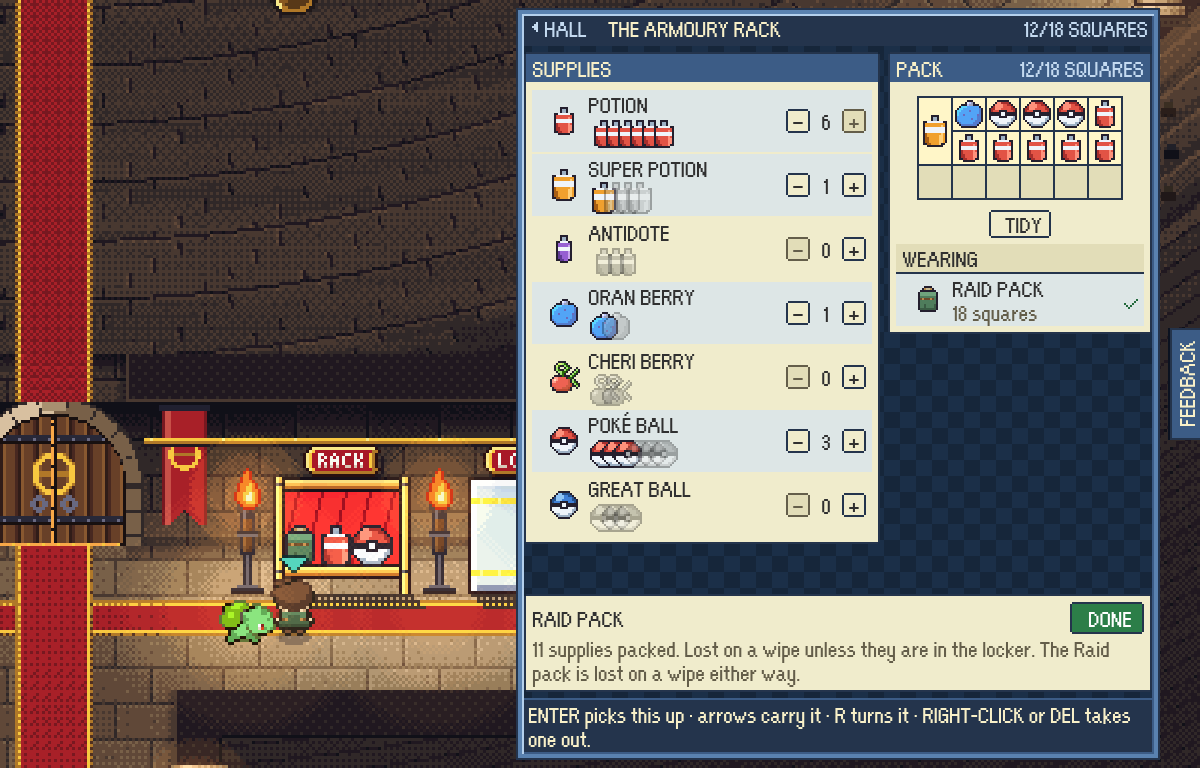
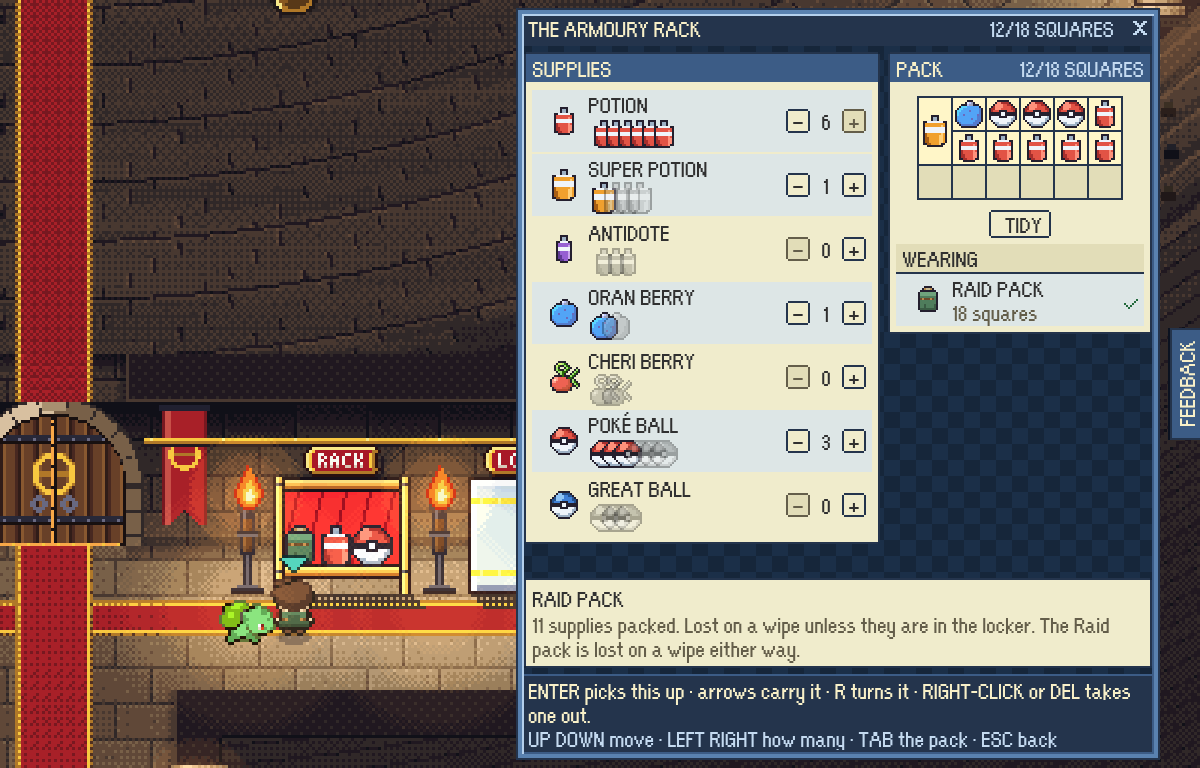
Every screen keeps one keys line that never goes, under the help for the thing the cursor is on
The hall's panels had a keys line in their markup, but the help bar showed the
highlighted control's help instead, so their keys were hidden from the first
frame. The help bar is now three lines: the control's help on two, and the
screen's keys on the bottom one, which nothing replaces. A note about the
screen as a whole (the raid result's) is helpDefault. The rack names its own
keys, Tab across to the pack among them, and rackTab.mjs follows the rack's
header X now that DONE and HALL are gone.

diff --git a/src/game/scenes/ExtractionScene.ts b/src/game/scenes/ExtractionScene.ts
@@ -517,9 +517,10 @@ export class ExtractionScene extends Phaser.Scene {
       place: escapeHtml(report.eyebrow),
       title: '',
       aside: escapeHtml(this.clockAside()),
-      // The help strip says what becomes of the result, as the full report's
-      // does; the key for the report is on its button (the critic's third pass).
-      hints: escapeHtml(this.momentNote()),
+      // The help line says what becomes of the result, as the full report's
+      // does, over the keys line every screen keeps.
+      helpDefault: escapeHtml(this.momentNote()),
+      hints: this.resultKeys(true),
       body: `<main class="px-body extraction-moment-layout">${pixelWindow(
         `${picture}<strong class="px-name moment-headline" data-moment-headline>${escapeHtml(moment.headline)}</strong>${
           report.closeCall ? `<span class="px-wrap">${escapeHtml(report.closeCall)}</span>` : ''
@@ -648,9 +649,10 @@ export class ExtractionScene extends Phaser.Scene {
       place: escapeHtml(report.eyebrow),
       title: '',
       aside: escapeHtml(this.clockAside()),
-      // There is one control on this screen, so the help bar is free to carry
-      // what becomes of the result.
-      hints: escapeHtml(this.footerNote()),
+      // There is one control on this screen, so the help line is free to carry
+      // what becomes of the result, over the keys line.
+      helpDefault: escapeHtml(this.footerNote()),
+      hints: this.resultKeys(false),
       body: `<main class="px-body extraction-layout ${escaped ? 'extraction-won' : 'extraction-lost'}">${pixelWindow(
         `<strong class="px-name">${escapeHtml(report.headline)}</strong>${report.closeCall ? `<strong class="px-name">${escapeHtml(report.closeCall)}</strong>` : ''}${(report.badgesWon ?? []).map((line) => `<strong class="px-name px-wrap" data-badge-won>${escapeHtml(line)}</strong>`).join('')}<span class="px-wrap">${escapeHtml(this.verdictSummary())}</span>${report.beatenBy ? `<span class="px-wrap what-beat-you">What beat you? ${escapeHtml(report.beatenBy)}</span>` : ''}`,
         { className: `extraction-verdict ${escaped ? 'px-tone-primary' : 'px-tone-risk'}`, tag: 'div' },
@@ -670,7 +672,8 @@ export class ExtractionScene extends Phaser.Scene {
       place: this.report.takenUpElsewhere ? TAKEN_UP_ELSEWHERE.place : 'Raid settled elsewhere',
       title: '',
       aside: escapeHtml(this.clockAside()),
-      hints: escapeHtml(this.footerNote()),
+      helpDefault: escapeHtml(this.footerNote()),
+      hints: this.resultKeys(false),
       body: `<main class="px-body extraction-layout extraction-lost">${pixelWindow(
         `<strong class="px-name">${escapeHtml(words.headline)}</strong><span class="px-wrap">${escapeHtml(words.summary)}</span>`,
         { className: 'extraction-verdict px-tone-risk', tag: 'div' },
@@ -905,6 +908,12 @@ export class ExtractionScene extends Phaser.Scene {
       return 'Banked';
     }
     return this.spentSupplies ? 'You came home lighter' : 'You came home whole';
+  }
+
+  /** The result's keys line: OK goes on, and L opens the full report from the moment. */
+  private resultKeys(reportToOpen: boolean): string {
+    const on = currentTry() ? 'back to the maker' : 'back to the Arena';
+    return reportToOpen ? `ENTER ${on} · L full report` : `ARROWS read · ENTER ${on}`;
   }
 
   private footerNote(): string {

diff --git a/src/game/ui/pixelUi.ts b/src/game/ui/pixelUi.ts
@@ -107,8 +107,17 @@ export interface PixelScreenOptions {
   /** Right-hand side of the title bar: a count, or the route's progress rail. */
   readonly aside?: string;
   readonly body: string;
-  /** What the keys do here. Replaced by a focused control's own `data-help`. */
+  /**
+   * What the keys do here: the bottom line of the help bar, which never
+   * disappears (the navigation audit, 25 Nov 2026, rule 9). A focused
+   * control's own `data-help` is the line above it.
+   */
   readonly hints: string;
+  /**
+   * What the help line says while the control the cursor is on has nothing of
+   * its own to say - a note about the screen as a whole. Empty by default.
+   */
+  readonly helpDefault?: string;
   /** A message about what just happened. It takes the help bar while it lasts. */
   readonly status?: string;
 }
@@ -170,7 +179,12 @@ export function pixelScreen(options: PixelScreenOptions): string {
   const status = options.status
     ? `<span class="px-status-line" role="status">${options.status}</span>`
     : '';
-  const help = `<p class="px-help${status ? ' has-status' : ''}"><span data-help-text data-help-default="${escapeAttribute(options.hints)}">${options.hints}</span>${status}</p>`;
+  // The help for whatever the cursor is on, over the keys line that never
+  // goes: before, the help took the keys line's place from the first frame,
+  // and every hall panel hid its keys (the navigation audit, 25 Nov 2026).
+  const helpDefault = options.helpDefault ?? '';
+  const keys = options.hints ? `<span class="px-keys" data-keys>${options.hints}</span>` : '';
+  const help = `<p class="px-help${status ? ' has-status' : ''}${keys ? ' has-keys' : ''}"><span data-help-text data-help-default="${escapeAttribute(helpDefault)}">${helpDefault}</span>${status}${keys}</p>`;
   return `<div class="px-screen"><header class="px-title">${back}<h1>${place}${options.title}</h1>${aside}${close}</header>${options.body}${help}</div>`;
 }
 

diff --git a/src/game/ui/pixelUi.test.ts b/src/game/ui/pixelUi.test.ts
@@ -44,8 +44,15 @@ describe('pixelScreen', () => {
   const screen = (status?: string): string =>
     pixelScreen({ title: 'Base', body: '<main></main>', hints: 'ARROWS move', status });
 
-  it('gives the help bar a default it can fall back to when the cursor has nothing to say', () => {
-    expect(screen()).toContain('data-help-text data-help-default="ARROWS move"');
+  it('keeps the keys on a line of their own under the help, which never goes', () => {
+    // The navigation audit (25 Nov 2026): the help for the control under the
+    // cursor took the keys line's place from the first frame, so every hall
+    // panel hid its keys. The help now has the line above them.
+    expect(screen()).toContain('<span class="px-keys" data-keys>ARROWS move</span>');
+    expect(screen()).toContain('data-help-text data-help-default=""');
+    expect(pixelScreen({ title: 'Raid', body: '', hints: 'ENTER on', helpDefault: 'Banked.' })).toContain(
+      'data-help-text data-help-default="Banked.">Banked.</span>',
+    );
   });
 
   it('hands the help bar to a status message while there is one', () => {
@@ -54,7 +61,8 @@ describe('pixelScreen', () => {
     expect(withStatus).toContain('role="status">Charmander recovered.');
     // The help text stays underneath, hidden by `has-status`, so the message can
     // be taken down without rebuilding the screen under the pointer.
-    expect(withStatus).toContain('class="px-help has-status"');
+    expect(withStatus).toContain('class="px-help has-status has-keys"');
+    expect(withStatus).toContain('data-keys>ARROWS move');
     expect(withStatus).toContain('data-help-text');
   });
 

diff --git a/src/game/console/gamesMenu.test.ts b/src/game/console/gamesMenu.test.ts
@@ -52,7 +52,8 @@ describe('the GAMES menu', () => {
     // On the menu N opens the name box and Escape leaves for the house; in the
     // box N is a letter and Escape puts the box down, so the menu's line lies.
     const html = gamesMenuMarkup(state({ naming: { value: 'AS' } }));
-    const defaultHelp = /data-help-default="([^"]*)"/.exec(html)?.[1] ?? '';
+    // The keys line under the help, which never goes (`pixelScreen`).
+    const defaultHelp = /data-keys>([^<]*)</.exec(html)?.[1] ?? '';
     expect(defaultHelp).not.toContain('N your name');
     expect(defaultHelp).not.toContain('back to the house');
     expect(defaultHelp).toContain('ENTER keep this name');
@@ -67,7 +68,7 @@ describe('the GAMES menu', () => {
     expect(renaming).toMatch(/data-help="Keep this name for every board\."[^>]*>OK</);
     const beforePlaying = gamesMenuMarkup(state({ playerName: null, naming: { value: '', then: 'pallet-blocks' } }));
     expect(beforePlaying).toMatch(/data-help="Play PALLET BLOCKS under this name\."[^>]*>OK</);
-    expect(/data-help-default="([^"]*)"/.exec(beforePlaying)?.[1]).toContain('ENTER play under this name');
+    expect(/data-keys>([^<]*)</.exec(beforePlaying)?.[1]).toContain('ENTER play under this name');
   });
 
   it('puts a refusal where the help bar is', () => {

diff --git a/src/style.css b/src/style.css
@@ -1905,6 +1905,30 @@ body.touch-play .feedback-tab {
   color: var(--bar-text);
   overflow: hidden;
 }
+/* A third line under the two, the screen's keys, which never goes (the
+   navigation audit, 25 Nov 2026, rule 9): the help for the thing under the
+   cursor keeps its two lines above it, and a sentence too long for them is cut
+   there rather than pushing the keys off the bar. */
+:where(.pixel-ui) .px-help.has-keys {
+  height: calc(var(--u) * 42);
+  display: flex;
+  flex-direction: column;
+}
+:where(.pixel-ui) .px-help.has-keys [data-help-text],
+:where(.pixel-ui) .px-help.has-keys .px-status-line {
+  max-height: calc(var(--u) * 24);
+  overflow: hidden;
+}
+:where(.pixel-ui) .px-keys {
+  display: block;
+  margin-top: auto;
+  margin-bottom: calc(var(--u) * 5);
+  height: calc(var(--u) * 12);
+  overflow: hidden;
+  white-space: nowrap;
+  text-overflow: ellipsis;
+  color: var(--bar-muted);
+}
 /* A status line stands in for the help text until it is taken down. */
 :where(.pixel-ui) .px-status-line {
   display: block;

diff --git a/src/game/scenes/HubScene.test.ts b/src/game/scenes/HubScene.test.ts
@@ -106,7 +106,9 @@ describe('the lobby as a screen of the game', () => {
     for (const screen of everyScreen()) {
       expect(screen).toContain('class="px-screen"');
       expect(screen).toContain('class="px-title"');
-      expect(screen).toContain('class="px-help"');
+      expect(screen).toMatch(/class="px-help[ "]/);
+      // And every one names its keys on the line that never goes (the navigation audit).
+      expect(screen).toMatch(/<span class="px-keys" data-keys>[^<]+</);
       // The modern-web vocabulary it replaced, which the raid's own screens still use.
       expect(screen).not.toMatch(/class="[^"]*(?<![\w-])(panel|entity-row|button|menu-shell)(?![\w-])/);
     }

diff --git a/src/game/scenes/HubScene.ts b/src/game/scenes/HubScene.ts
@@ -1713,8 +1713,15 @@ export class HubScene extends Phaser.Scene {
     return undefined;
   }
 
-  /** What the keys do, said once along the bottom of every screen. */
+  /**
+   * What the keys do, said once along the bottom of every screen, on a line of
+   * its own that never goes. The rack says its own: Left and Right are the
+   * counts', so Tab is the way across to the pack (`areaHopIndex`).
+   */
   private get hints(): string {
+    if (this.view === 'rack') {
+      return 'UP DOWN move · LEFT RIGHT how many · TAB the pack · ESC back';
+    }
     return 'ARROWS move · ENTER choose · ESC back';
   }
 

diff --git a/docs/agents/ui-and-screens.md b/docs/agents/ui-and-screens.md
@@ -27,6 +27,7 @@ Moved out of `AGENTS.md` on 9 Nov 2026 so that file stays small; nothing here wa
 - **A phone plays on the touch pad, and the pad is only ever keys** (`ui/touchPad.ts`). It presses the keys the game already answers - the d-pad is the arrows, OK is SPACE, BACK is ESC - as real `KeyboardEvent`s at the focused element (`input/syntheticKeys.ts`, which writes the `keyCode` Phaser reads), so no scene or screen has a touch path of its own and anything a keyboard can do a thumb can. The row above OK and BACK is the screen's own keys by name: a scene answers `touchShortcuts()` (`input/touchShortcuts.ts`) - `WorldScene` from `RAID_KEY_WORDS`, `BaseScene` from `YARD_KEY_WORDS` - and the letter keys its hint line names (`[H] DECORATE`) are read off that line, so the pad offers a key exactly when the screen says it can be pressed; a new key a scene binds is named in its hint or in its `touchShortcuts`. A key the moment or a screen adds is `extra` (`withMoment`, `asExtra`) and `shareKeys` sets it after the standing keys, framed teal, so a standing key never moves under a thumb that learned where it is (and a standing key whose letter the screen takes for its own - L is LEAD on YOUR TEAM - stays where it is, dimmed and dead, `inert`); a key a moment makes dead (PACK and TEAM while a raid's dialogue box waits) is `inert` in its place too, and a scene with no keys of its own over the one it came from (`BattleScene.dimsTouchTray`) leaves that scene's keys standing, all dimmed, so the pad never changes shape - and on the touch pad the raid's objective chip and the yard's hint line stop naming the keys the tray already shows. Whether the pad is up is `input/touchPlay.ts` (a coarse pointer to start, on at a touch, off at a real key that is not typed into a field), and while it is, `watchViewport` lays the window out round it (`display/touchLayout.ts`: the game on top and the pad below upright, the pad either side on its side) and the menus get the room the pad leaves. A press never takes focus (`preventDefault` on `pointerdown`, no real buttons), which is what lets OK press the button the menu's cursor is on. While the pad is up every Phaser `Text` says its keys the pad's way (`input/touchWords.ts`, patched onto `setText` beside `installPixelText`): `[SPACE]` is `[OK]`, `[ESC]` `[BACK]`, the arrows the `D-PAD`, and `[B] PACK` is `[PACK]`, the tray button's word; `sourceText()` is what the text was given, which is what anything reading a hint for its keys must read. The menu screens are reworded the same way by `ui/menuWords.ts`, a `MutationObserver` on `#screens` that keeps each text node's own words to put back, and a screen's help line (`data-help-default`, `pixelScreen`'s `hints`) is where the pad reads that screen's own letter keys from (`helpLineKeys`: "X drop" is a DROP key on the tray while the pack is up), so a new screen key is taught on its help line as `KEY words`, between ` · `. `tools/playtest/phone.mjs` emulates a phone with real touches and `phoneTour.mjs` photographs every screen the pad changes.
 - Phaser's key captures are global and outlive the scene that asked for them: `addCapture`, and `addKey` which captures by default, register on the game's KeyboardManager, so a paused `WorldScene` was still calling `preventDefault()` on O, P, B, K, SPACE and ENTER while an overlay it opened sat on top - which is why the field guide could only be closed with the mouse. Input ownership is therefore not a scene's to take: `src/game/ui/overlayKeyboard.ts` owns it, every `MenuOverlay` claims through it on construction and releases on `destroy()`, and one shared window listener in the *capture* phase gives the key to the topmost overlay and stops propagation so nothing below it - paused scene, Phaser captures, lower overlay - sees the key at all. Keyup is deliberately left to flow. A new overlay needs no key wiring of its own; It also swallows a *repeated* Enter or Space (`isHeldCommitKey`), default and all, because Chromium works the focused button on every auto-repeat and a held Enter once ran the drop-in step into the raid (`tools/playtest/heldEnter.mjs`). It also presses a focused button on Space's *keydown* (`pressFocusedButton`), because Chromium works a button with Space on the keyup and Phaser `preventDefault()`s the keyup of every captured key, so Space was dead on every menu. `isOverlayDismissKey(event, 'o')` is the shared rule that Escape and the key that opened a screen both close it, and `overlayKeyboard.test.ts` reproduces the whole layering without a browser. Every DOM menu rebuilds its markup per change and so must say where focus lands: `MenuOverlay.focus()` takes an *ordered* list of selectors (`src/game/ui/menuFocus.ts`), because one comma-separated selector focuses whichever match is first in the document, and that is always the back button - whose Enter resumes the raid clock. A redraw of the screen already showing goes through `MenuOverlay.redraw`, which keeps every pane's scroll (plain `innerHTML` put the loadout list back at its top on every pack), and putting the cursor back never scrolls. For the same reason a timer must never `render()` a DOM screen: a rebuild between mousedown and mouseup eats the click, which is why `HubScene.setStatus()` removes its line rather than re-rendering.
 - **W, A, S and D are the arrows on every overlay** (the navigation audit, 25 Nov 2026): `asArrowEvent` in `src/game/ui/overlayKeyboard.ts` hands the topmost overlay's handler a W, A, S or D as the arrow it stands for, so its cursor, pocket jumps and page turns take them as they take the arrows. A field being typed in never gets there (`isTypingTarget`) and Ctrl, Alt or Meta leaves them the browser's. A new screen needs no wiring of its own; a screen that wanted W, A, S or D as a letter of its own would have to be asked here first.
+- **Every screen keeps one keys line that never goes** (the navigation audit, 25 Nov 2026, rule 9). `pixelScreen`'s help bar is three lines: the help for the control under the cursor (or the pointer) on the top two, and `hints` on the bottom one (`.px-keys`, `data-keys`), which no control's help replaces. A note about the screen as a whole that is not a key - what becomes of a raid's result - is `helpDefault`, shown on the help line while the control has nothing of its own to say. Before, the help took the keys line's place from the first frame and every hall panel hid its keys. A hall panel's keys are `HubScene.hints`; the rack names its own (Left and Right are the counts', Tab crosses to the pack).
 - **Tab hops between the areas of a screen and never leaves the panel** (the navigation audit, 25 Nov 2026, rule 10). `MenuOverlay.moveCursor('Tab')` first crosses from a row into the pane it shows and back (`detailStepIndex`), and otherwise goes to the next area - each outermost framed window that is not itself a control, the bar under them, the header - with Shift+Tab going back, landing where the cursor last was in that area (`areaHopIndex` in `ui/menuFocus.ts`). It always takes the key, so the browser's own Tab never walks the cursor out into the page. On THE ARMOURY RACK it is how the PACK side is reached, since Left and Right are the counts' (`tools/playtest/rackTab.mjs`). A screen that handles Tab itself (the boutique) is asked first, as before.
 - **A pop-up is one window, FireRed's: cream paper in a blue-rimmed frame, and a question's answers in a window of their own** (the captain, 25 Nov 2026: menus' "shite colours, shite design"; `docs/screens/menu-system/`). `src/game/ui/uiPalette.ts` names the colours by role (`UI.paper`, `UI.ink`, `UI.cursor`...) and `uiPalette.test.ts` holds the text to WCAG AA on every paper; `drawFramedWindow` (in `pixelWindow.ts`) is the frame, `FRAME_DEPTH` deep - a line with clear corners, a two-pixel rim, a one-pixel bevel - and `drawPopupCursor` the red cursor with its shadow. The overworld and harbour dialogue boxes, `ChoicePrompt`, the phrase list and the battle - its panel, its HP plates (each single battle's type banner a navy tab on its plate's top edge), its red cursor, with the move rows and guidance seated inside the four-pixel frame (`battlePresentation.ts`) - are drawn in it; the harbour's box is the raid's width (`BASE_STAGE_WIDTH - 16`), because at 232 it held 38 letters a row and Nurse Joy's hello was ten presses cut mid-sentence. `ChoicePrompt` puts the answers in a window standing on the right end of the question's box, sharing its top line, one under another (or `columns` abreast, a lift's floors), every answer in full ink and the cursor the only mark, and each whole row a tap target: on the box's last line they were printed over any question that wrapped to two. Anything that keeps clear of a question asks `ChoicePrompt.bounds`, which covers the answer window too. `tools/playtest/popupShots.mjs` photographs every pop-up the harbour opens (`--raid` for the raid's). **The DOM menus wear the same colours**: the Pixel UI tokens (`--cream`, `--ink`, `--frame`, `--rim`, `--cursor`...) are the palette's, and `uiPalette.test.ts` fails a stylesheet that drifts from it. Title and help bars are the frame's navy, a panel's heading the rim's shade (`--heading`), the backdrop a checker of two blues, the cursor on paper red, a confirm button green with white letters, and a tag on a bar takes a light ink. Each whole screen carries the frame - `.px-screen::after`, painted over the screen's own edge, where the bars and the body's padding are, so it costs a column no room; the title bar is two pixels deeper and the help bar four to stand clear of it, and `CARD_ROW_MENU_HEIGHT` rose by those six. Only the screen: a rim round every panel inside it crowds the rows.
 - Every panel in the game is one drawn frame: `src/game/ui/pixelWindow.ts` reproduces `assets/battle/hud-box.png` - a one-pixel `#171717` border with clear corners - at any size, because that texture is 32x32 and smears when stretched small. Cream fill is screen furniture (`RaidHud`), a tinted fill with a coloured border is world annotation (`src/game/ui/WorldLabel.ts`), and `DialogBox` takes `pixelWindow: true` for the same frame, and `.px-window` in `src/style.css` is its DOM twin - drawn as backgrounds so the corners stay clear without a clip. Nothing stretches a panel texture any more - the battle dialogue and the two name plates were the last, and `hud-box.png`/`dialog-plain.png` are kept for provenance but no longer loaded; `pixelWindow.test.ts` fails any scene that passes `backgroundTexture` again.

diff --git a/docs/screens/keys-line/README.md b/docs/screens/keys-line/README.md
@@ -1,0 +1,20 @@
+# Every screen keeps its keys line
+
+The navigation audit (25 Nov 2026) found that the hall's panels - the bench, the
+rack, the locker, the raid result - each had a keys line in their markup, but the
+help bar showed the highlighted control's help instead, and every control has
+help, so the keys line was hidden from the first frame (`before-bench.png`,
+`before-rack.png`).
+
+Now the help bar is three lines on every pixel-ui screen: the help for the thing
+under the cursor (or the pointer) on the top two, and the screen's keys on the
+bottom one, which nothing replaces. The rack names its own keys: "UP DOWN move ·
+LEFT RIGHT how many · TAB the pack · ESC back" (`after-rack.png`). THE POKéDEX
+keeps "ARROWS move · ENTER opens a page · X close" under the tile's line
+(`after-pokedex.png`).
+
+## How they were made
+
+The before pictures are the navigation audit's. The after pictures are
+`node tools/playtest/rackTab.mjs` and `node tools/playtest/pointerOnly.mjs`
+against a `VITE_EPTW_TEST_MODE=pixels` build of this branch at 1200x768.

diff --git a/docs/screens/rack-tab/README.md b/docs/screens/rack-tab/README.md
@@ -7,8 +7,10 @@ Left and Right change a row's number there, so they could not cross
 (`before-rack.png`).
 
 Now Tab hops between the areas of any screen and never leaves the panel: on the
-rack, from the supplies to the pack, to DONE on the bar, to the panel's HALL
-header, and round to the supply row it left. Shift+Tab goes the other way.
+rack, from the supplies to the pack, to the X in the panel's header, and round
+to the supply row it left. Shift+Tab goes the other way. (When this was first
+made the rack also had a DONE button on its bar and a HALL button in its header;
+both have since gone, and only the X closes it.)
 `after-tab-to-pack.png` is one Tab from the supplies: the cursor is on the first
 piece in the pack, and the help line says the pack's own keys.
 

diff --git a/tools/playtest/README.md b/tools/playtest/README.md
@@ -137,8 +137,8 @@ must answer the tile pointed at and the cursor's again once the pointer leaves,
 and a click must still press (`docs/screens/pointer-only/`).
 
 `rackTab.mjs <test-mode build url> <dir> [--port=N]` opens THE ARMOURY RACK on a
-long stash and presses Tab: supplies, then the pack, then DONE, then round to the
-supply row it left; Shift+Tab the other way; never out of the panel
+long stash and presses Tab: supplies, then the pack, then the header's X, then
+round to the supply row it left; Shift+Tab the other way; never out of the panel
 (`docs/screens/rack-tab/`).
 
 `slowLoad.mjs <cdp port> <build url> <dir> [kbit/s] [latency ms]` opens the game
